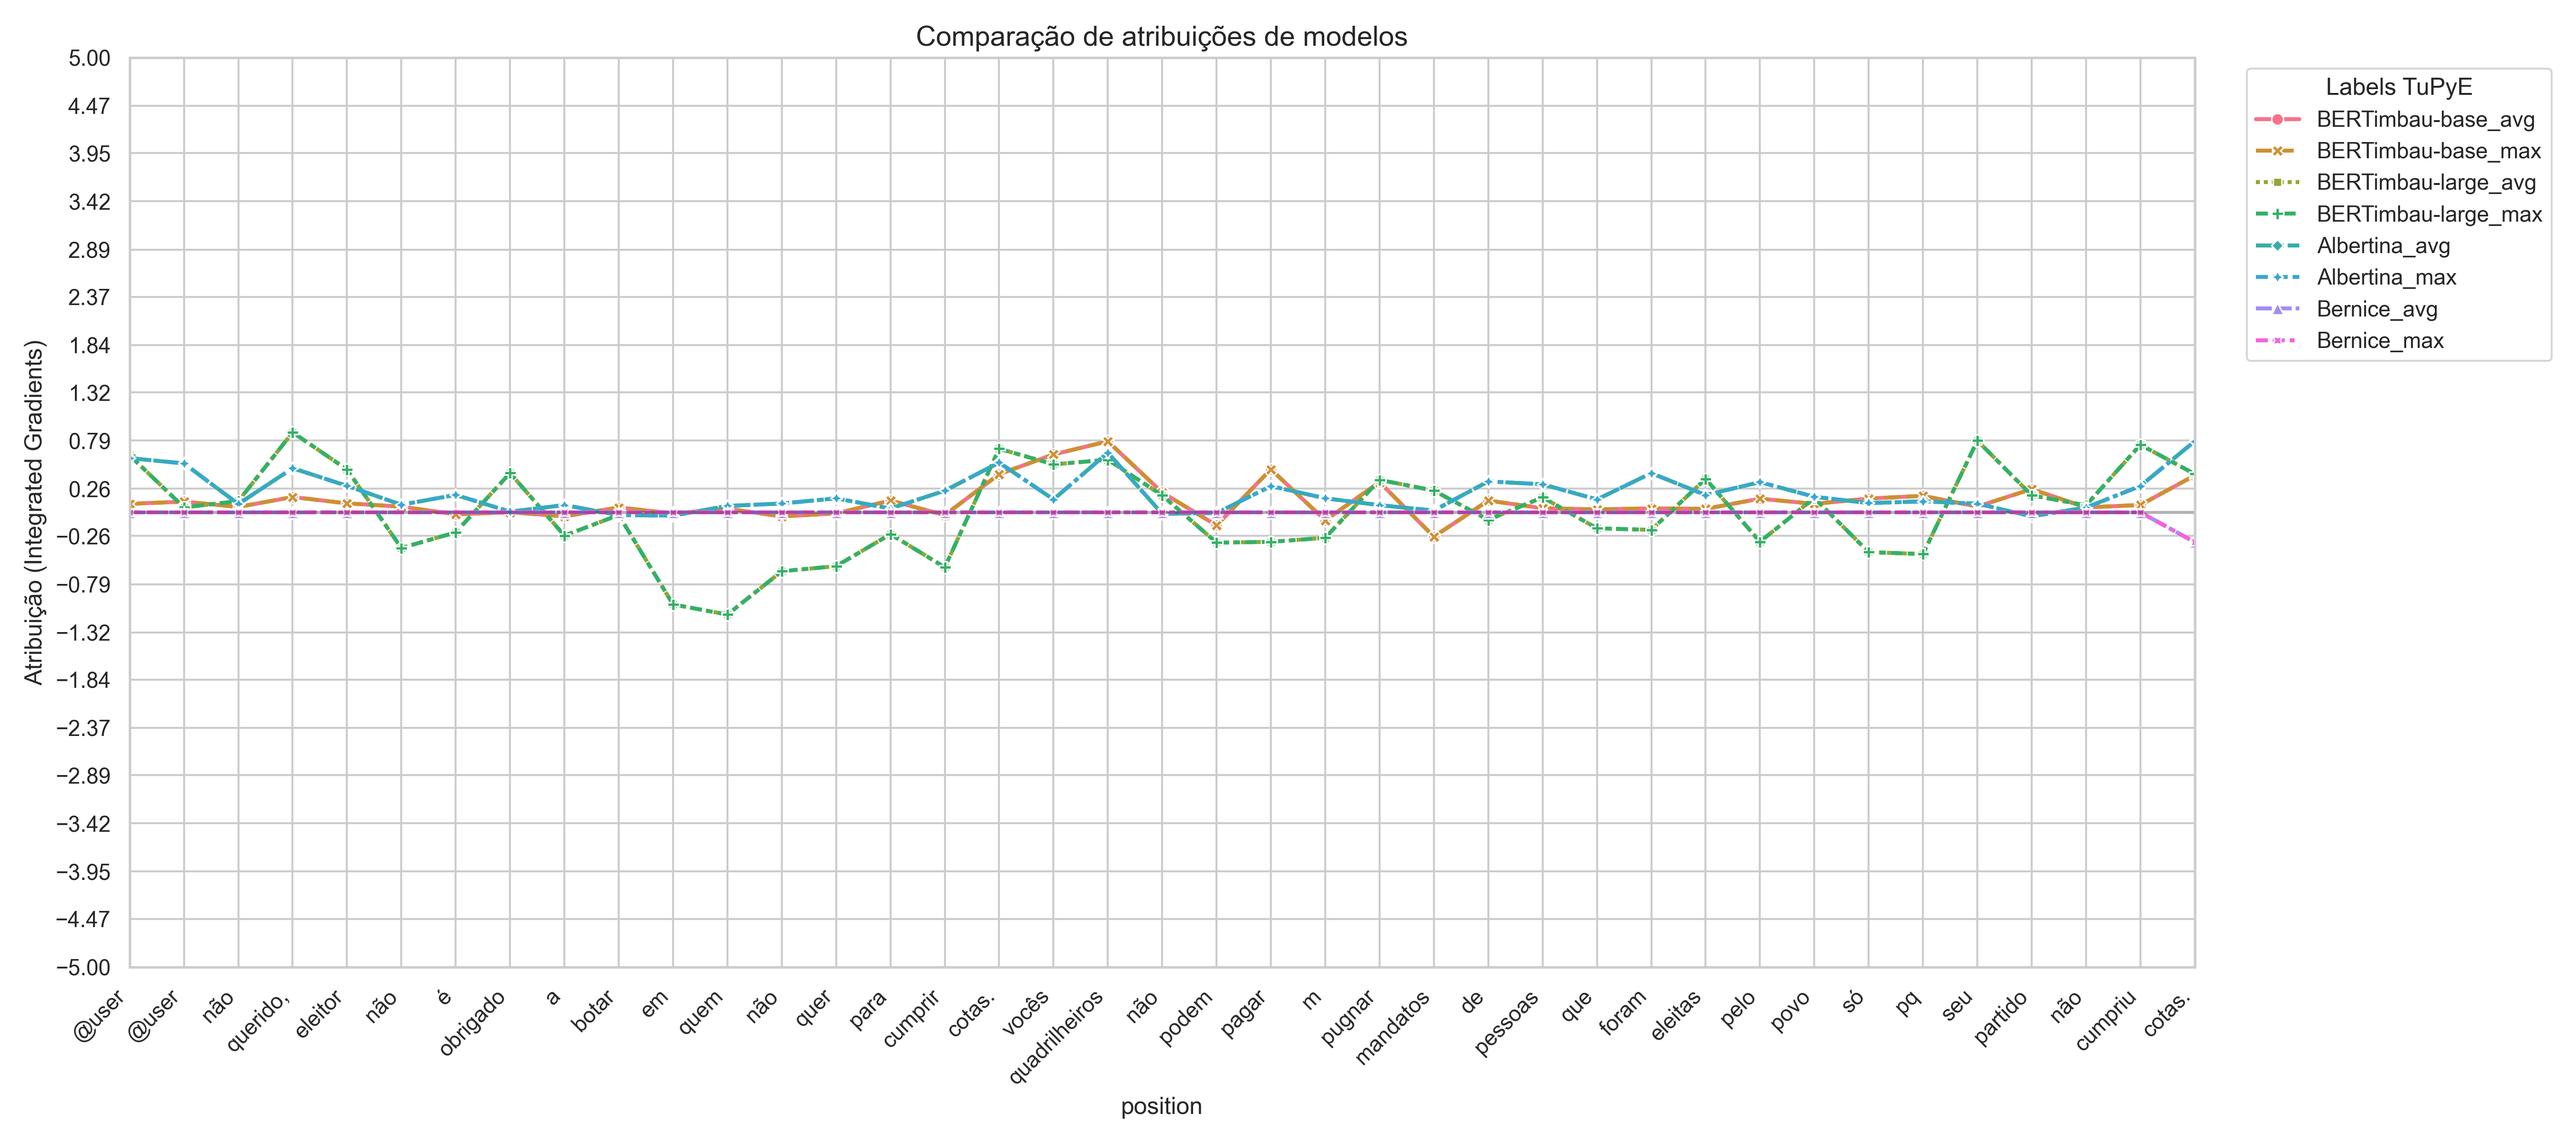
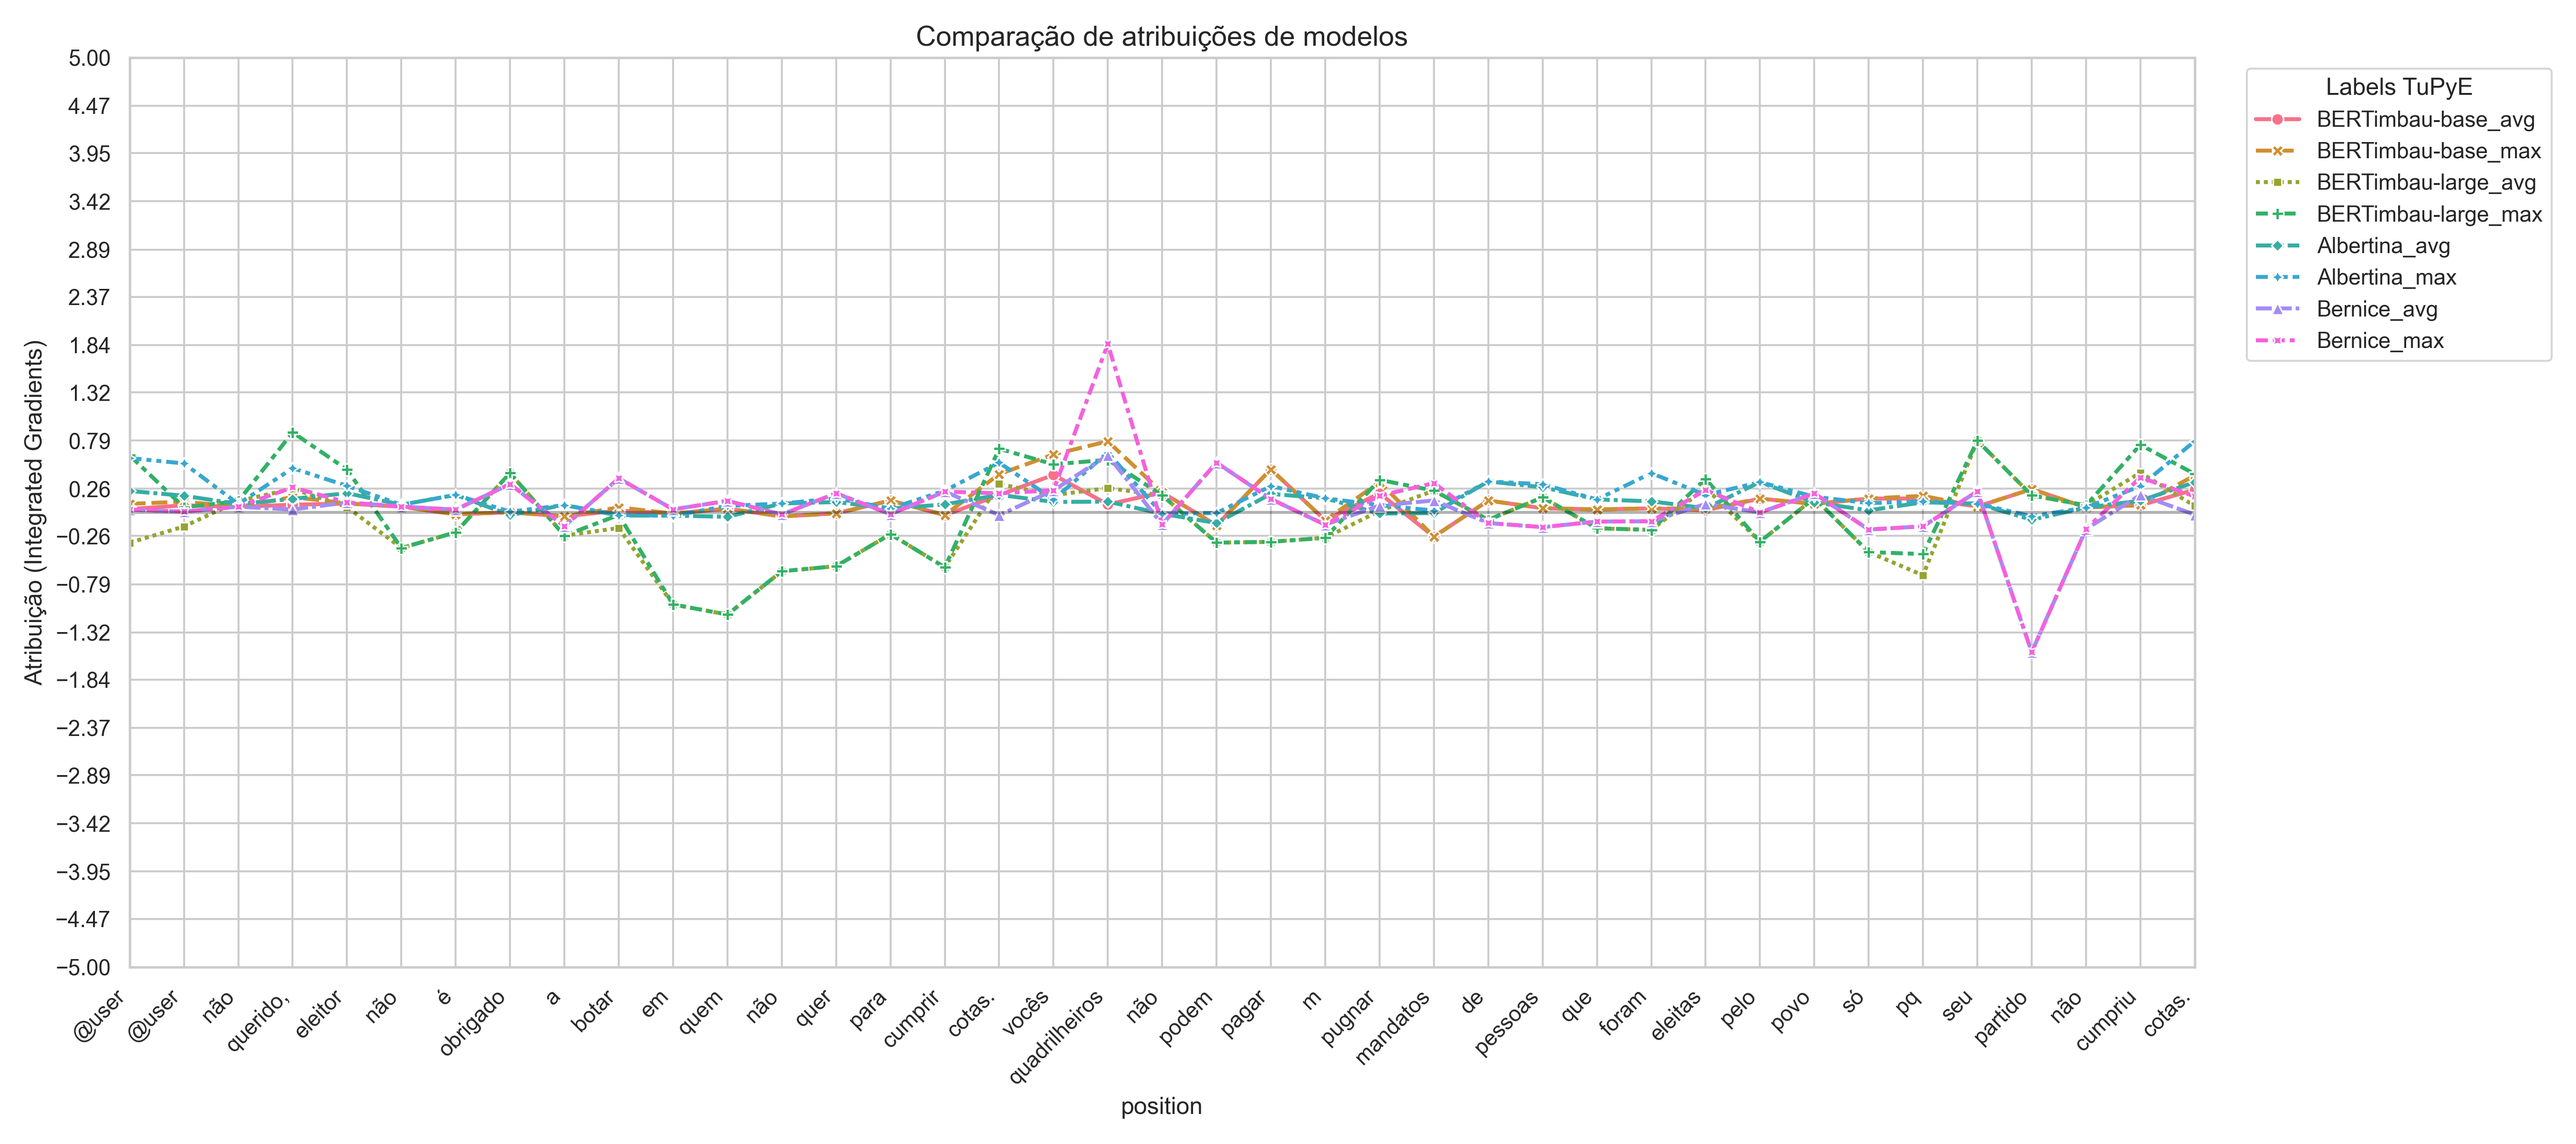
funciona????????

Changed region(s): [[0.0622, 0.375, 0.8711, 0.4688], [0.7778, 0.5, 0.8089, 0.5625]]

diff --git a/src/analysis.py b/src/analysis.py
@@ -20,25 +20,28 @@ def compareAttr(model_names: list, instances: pd.DataFrame):
         target_class = instance["class"].values[0]
         text = instance["text"].values[0]
         
-        words = re.sub(r'([.,!?])(?! )', r'\1 ', text)
-        
-        words = re.split(r" |\n", text)
-        words = [x for x in words if x != ""]
+        # 1. Remove qualquer espaço que tente separar pontuações vizinhas (ex: "? !" vira "?!")
+        text = re.sub(r'([.,!?])\s+(?=[.,!?])', r'\1', text)
+
+        # 2. Cola todo o bloco de pontuações na palavra anterior e bota um espaço depois Ex: "amigo    ?!?!?!" -> "amigo?!?!?!" -> "amigo?!?!?! "
+        text = re.sub(r'\s*([.,!?]+)(?!\s|$)', r'\1 ', text)
+        text = re.sub(r'\s+([.,!?]+)', r'\1', text)
+
+        # 3. Limpeza final de espaçamentos
+        text = re.sub(r'\s+', ' ', text).strip()
+
+        # 4. Cria a lista de tokens
+        words = text.split()
         
         df = pd.DataFrame()
         df["word"] = words
         
         for name in model_names:
-            #name = "Bernice"
             model_data = loadAttributions(name, words, instance)
             df[f"{name}_avg"] = model_data["avg"]
             df[f"{name}_max"] = model_data["max"]
-        
-        #print("\n")    
-        #print(i, df)
-        #print("\n")
 
-        #dataVisualization.plotModelComparison(df, save_path=f'analysis/{target_class}-{i}.png', show=False)
+        dataVisualization.plotModelComparison(df, save_path=f'analysis/{target_class}-{i}.png', show=False)
 
 
 def loadAttributions(model_name, words, instance) -> pd.DataFrame:
@@ -57,83 +60,90 @@ def loadAttributions(model_name, words, instance) -> pd.DataFrame:
     tokens = df['token'].tolist()
     attr = df[target_class].values
 
-    avg_attrs, max_attrs = wordAttributes(tokens, attr, words, model_name)
+    words_df = wordAttributes(tokens, attr, words, model_name)
     
-    data = {'max': max_attrs, 'avg': avg_attrs}
+    data = {'max': words_df['max'].to_list(), 'avg': words_df['avg'].to_list()}
 
     return data
-
-
-# tokens that always start a new word regardless of ▁
-WORD_START_TOKENS = {'@USER', 'HTTPURL', 'URL'}
 
 def wordAttributes(tokens: list[str], attributions: np.ndarray, words: list[str], model_name: str):
     
     #ainda tratar diferentes separações de pontuação
     
-    bert_style = 'bertimbau' in model_name.lower()
+    words = [(i, w.lower()) for i, w in enumerate(words)] # adiciona um id por palavra por conta de possíveis repetições
     
-    model_words = modelWords(tokens, attributions, bert_style)
-    model_words = model_words.to_dict(orient='records')
+    model_words = modelWords(tokens, attributions, model_name)
     
-    #fazer mapeamento palavras reais e atributos
+    # mapeamento palavras reais e atributos
     
     remaining_words = deque(words)
     remaining_model_words = deque(model_words)
     
-    attrs_rows = [{'word': w, 'avg': 0, 'max': 0} for w in words] # preenche com zero caso haja mais palavras que modelo excluiu
+    attrs_rows = [{'id': i, 'word': w, 'avg': 0.0, 'max': 0.0} for i, w in words] # preenche com zero caso haja mais palavras que modelo excluiu
+    attrs_df = pd.DataFrame(attrs_rows).set_index('id')
     
     while remaining_words:
-        w = remaining_words.popleft()
+        i, w = remaining_words.popleft()
         current_word = ""
         current_attr = []
         
         while remaining_model_words:
             
             row = remaining_model_words[0]
+            candidate = current_word + row['word']
         
-            current_word = current_word + row['word']
-            current_attr = current_attr + row['attributions']
-        
-            if w.startswith(current_word):
+            if w.startswith(candidate):
                 
-                _ = remaining_model_words.popleft()
+                current_word = current_word + row['word']
+                current_attr = current_attr + row['attributions']
+                
+                _ = remaining_model_words.popleft() # consome após confirmar match
                 
                 if w == current_word:
-                    attrs_rows.append({'word': w, 'avg': np.mean(current_attr), 'max': np.max(current_attr)})
+                    attrs_df.loc[i, 'avg'] = np.mean(current_attr)
+                    attrs_df.loc[i, 'max'] = np.max(current_attr)
+                    break # se palavra está completa passa para a próxima
             
             else:
-                break #pula palavra, já tem zeros onde precisa
-                
-    print(pd.DataFrame(attrs_rows))
-                
-            
+                break # modelo pulou esta palavra, mantém zeros
     
-    raise NotImplementedError
-    return 
+    return attrs_df
 
+# tokens that always start a new word regardless of ▁
+WORD_START_TOKENS = {'@', '@USER', 'HTTPURL', 'URL'}
+def modelWords(tokens, attributions, model_name):
 
-def modelWords(tokens, attributions, bert_style):
-
+    style = 'bertimbau' if 'bertimbau' in model_name.lower() else model_name.lower()
+    
     rows_list = []
-    ant = ""
     
+    ant = "-$+!a!b&^" # apenas algo que não começaria uma frase para não estar em nenhum grupo
     curr_word = ""
     word_attrs = []
     
     for tok, attr in zip(tokens, attributions):
         
-        if bert_style:
-            is_new_word = not tok.startswith("##") and not ant != '@' and tok not in list(string.punctuation.remove('@'))
-        else:
-            is_new_word = tok.startswith('▁') or tok in WORD_START_TOKENS or tok.startswith('@')
+        puncts = ".,?!"
+        tok_is_punct = tok in puncts
+        ant_is_punct = ant in puncts
+        new_word_by_punct = ant_is_punct and not tok_is_punct # pontuação deve ser nova palavra se o token anterior não é pontuação
         
-        clean_token = tok.removeprefix('##') if bert_style else tok.removeprefix('▁').strip()
+        if style == 'bertimbau':
+            is_new_word = (not tok.startswith("##") and ant != '@') or new_word_by_punct
+            clean_token = tok.removeprefix("##")
+        
+        elif style == 'bernice':
+            is_new_word = (tok.startswith('▁') or tok in WORD_START_TOKENS) or new_word_by_punct
+            clean_token = tok.removeprefix('▁').strip()
+        
+        else:
+            is_new_word = (tok.startswith('▁') or tok in WORD_START_TOKENS) or new_word_by_punct
+            clean_token = tok.removeprefix('▁').strip()
         
         if is_new_word: #adiciona nova palavra
             
             if curr_word != "": #necessário por conta da primeira iteração
-                rows_list.append({"word": curr_word, "attributions": word_attrs}) #adiciona palavra finalizada
+                rows_list.append({"word": curr_word.lower(), "attributions": word_attrs}) #adiciona palavra finalizada
             
             curr_word = clean_token #começa nova palavra
             word_attrs = [float(attr)]
@@ -142,13 +152,12 @@ def modelWords(tokens, attributions, bert_style):
             curr_word = curr_word + clean_token #concatena token limpo
             word_attrs.append(float(attr)) #adiciona atribuição a ele
         
-        ant = tok
-        
-    df = pd.DataFrame(rows_list)
-    #print(df)
-    raise
+        ant = clean_token
     
-    return df
+    # adiciona último token que não foi adicionado por não ter nada depois
+    rows_list.append({"word": curr_word.lower(), "attributions": word_attrs})
+    
+    return rows_list
 
 if __name__ == "__main__":
     
